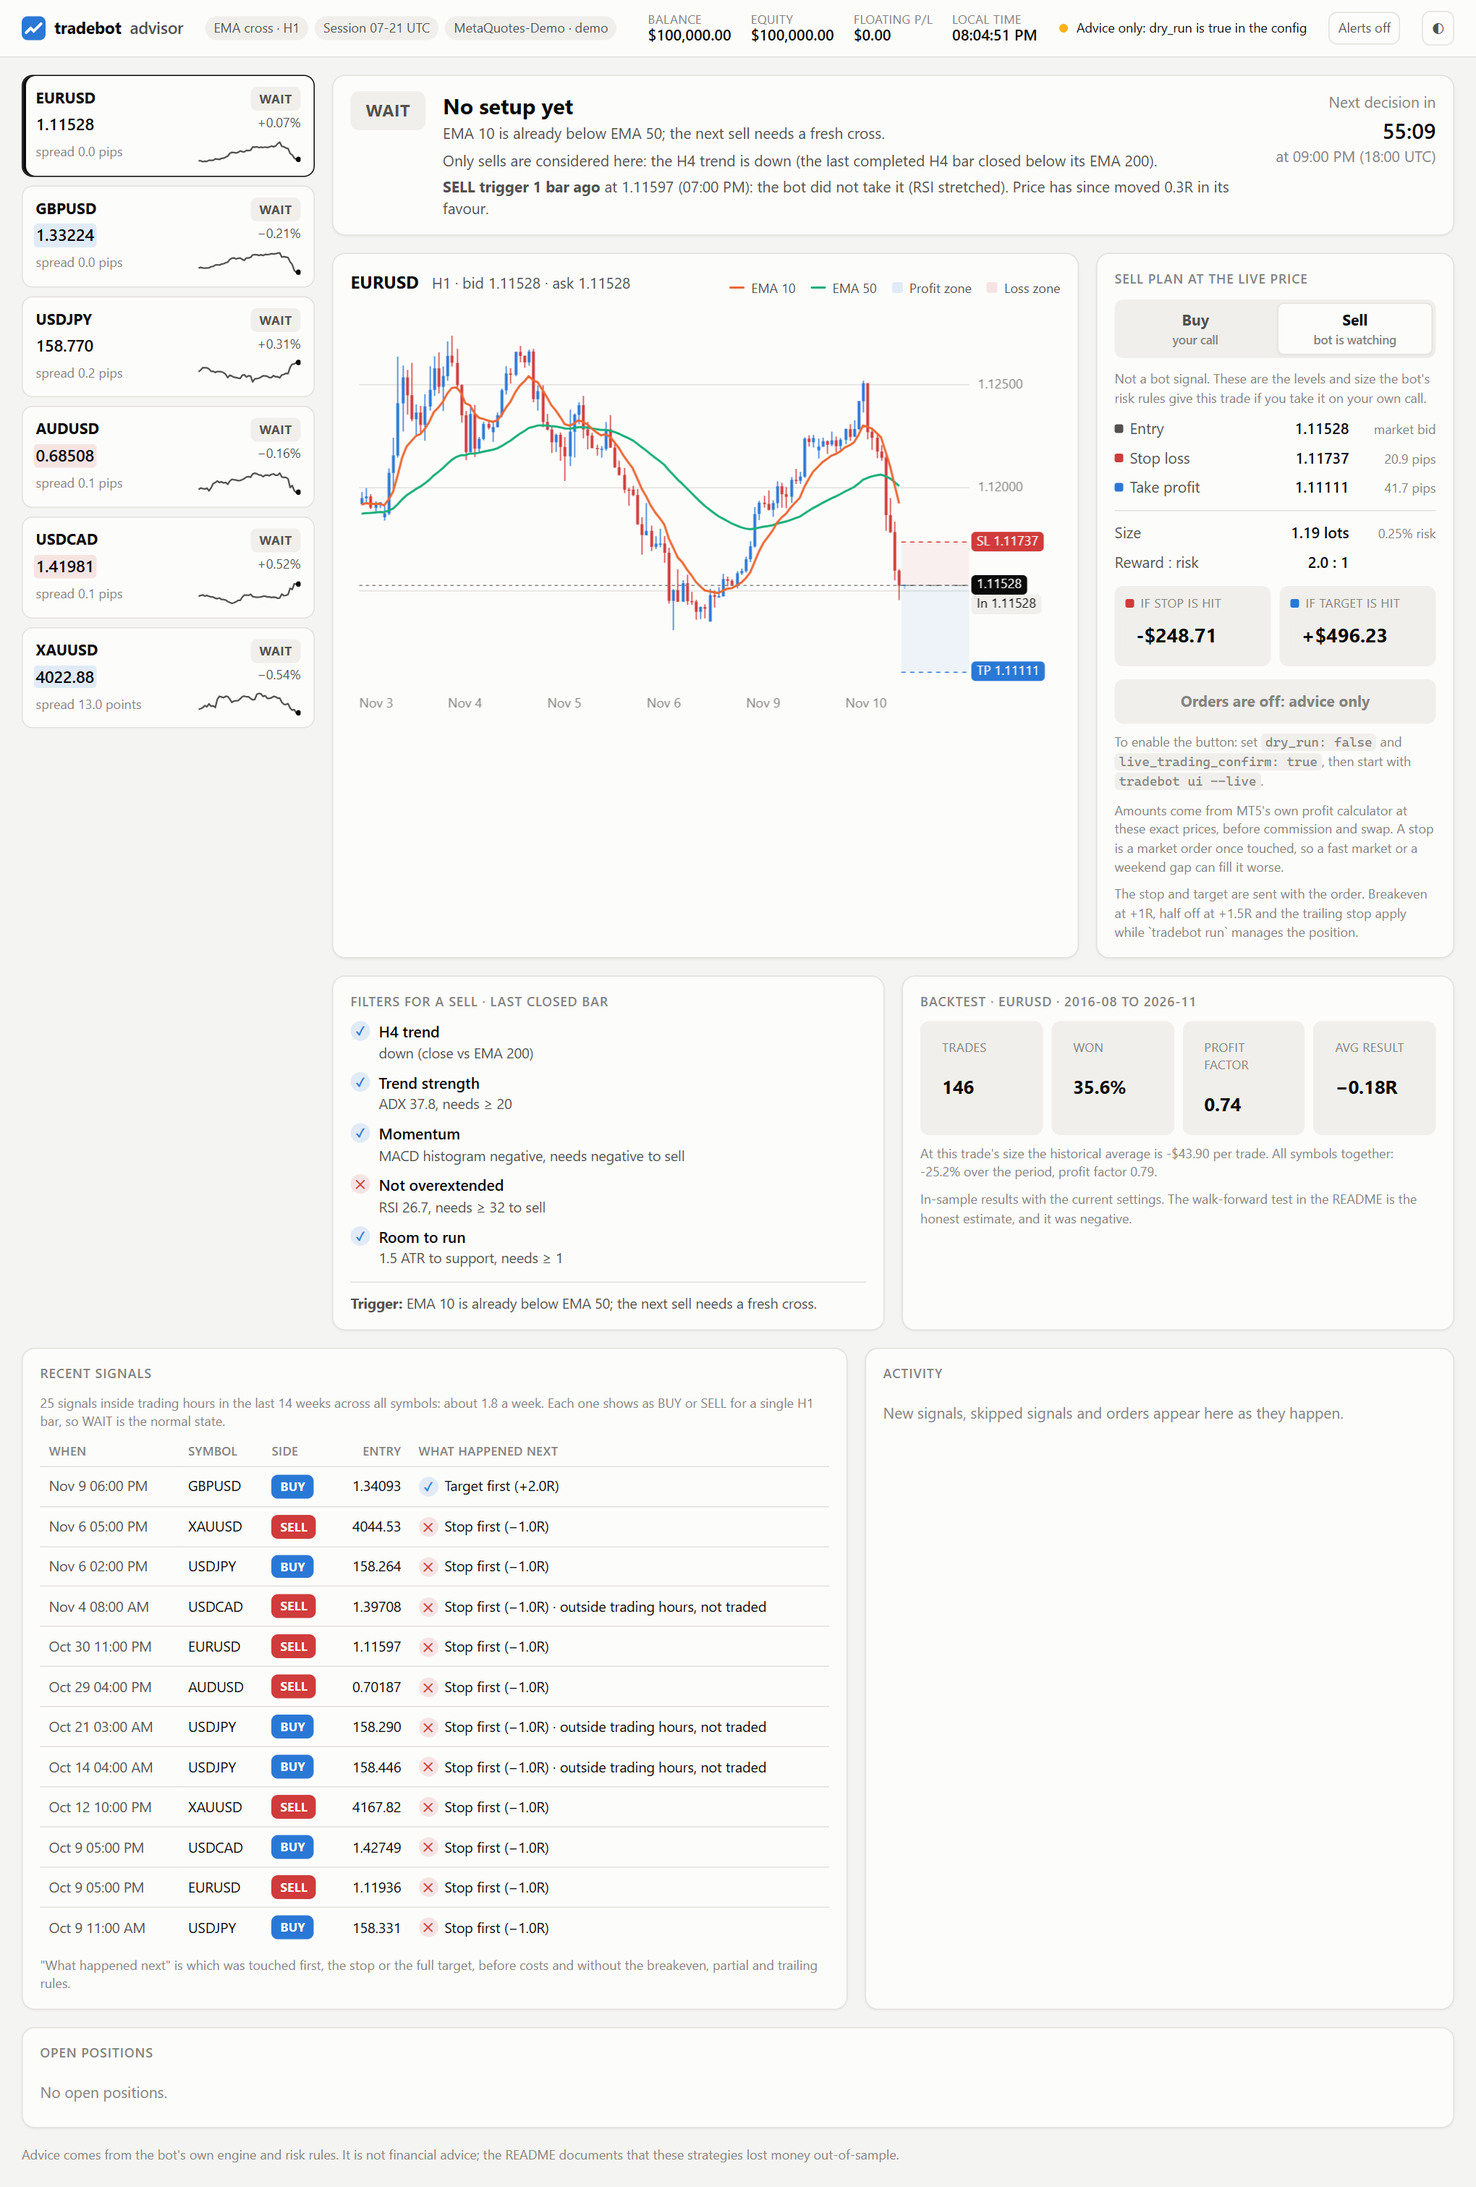
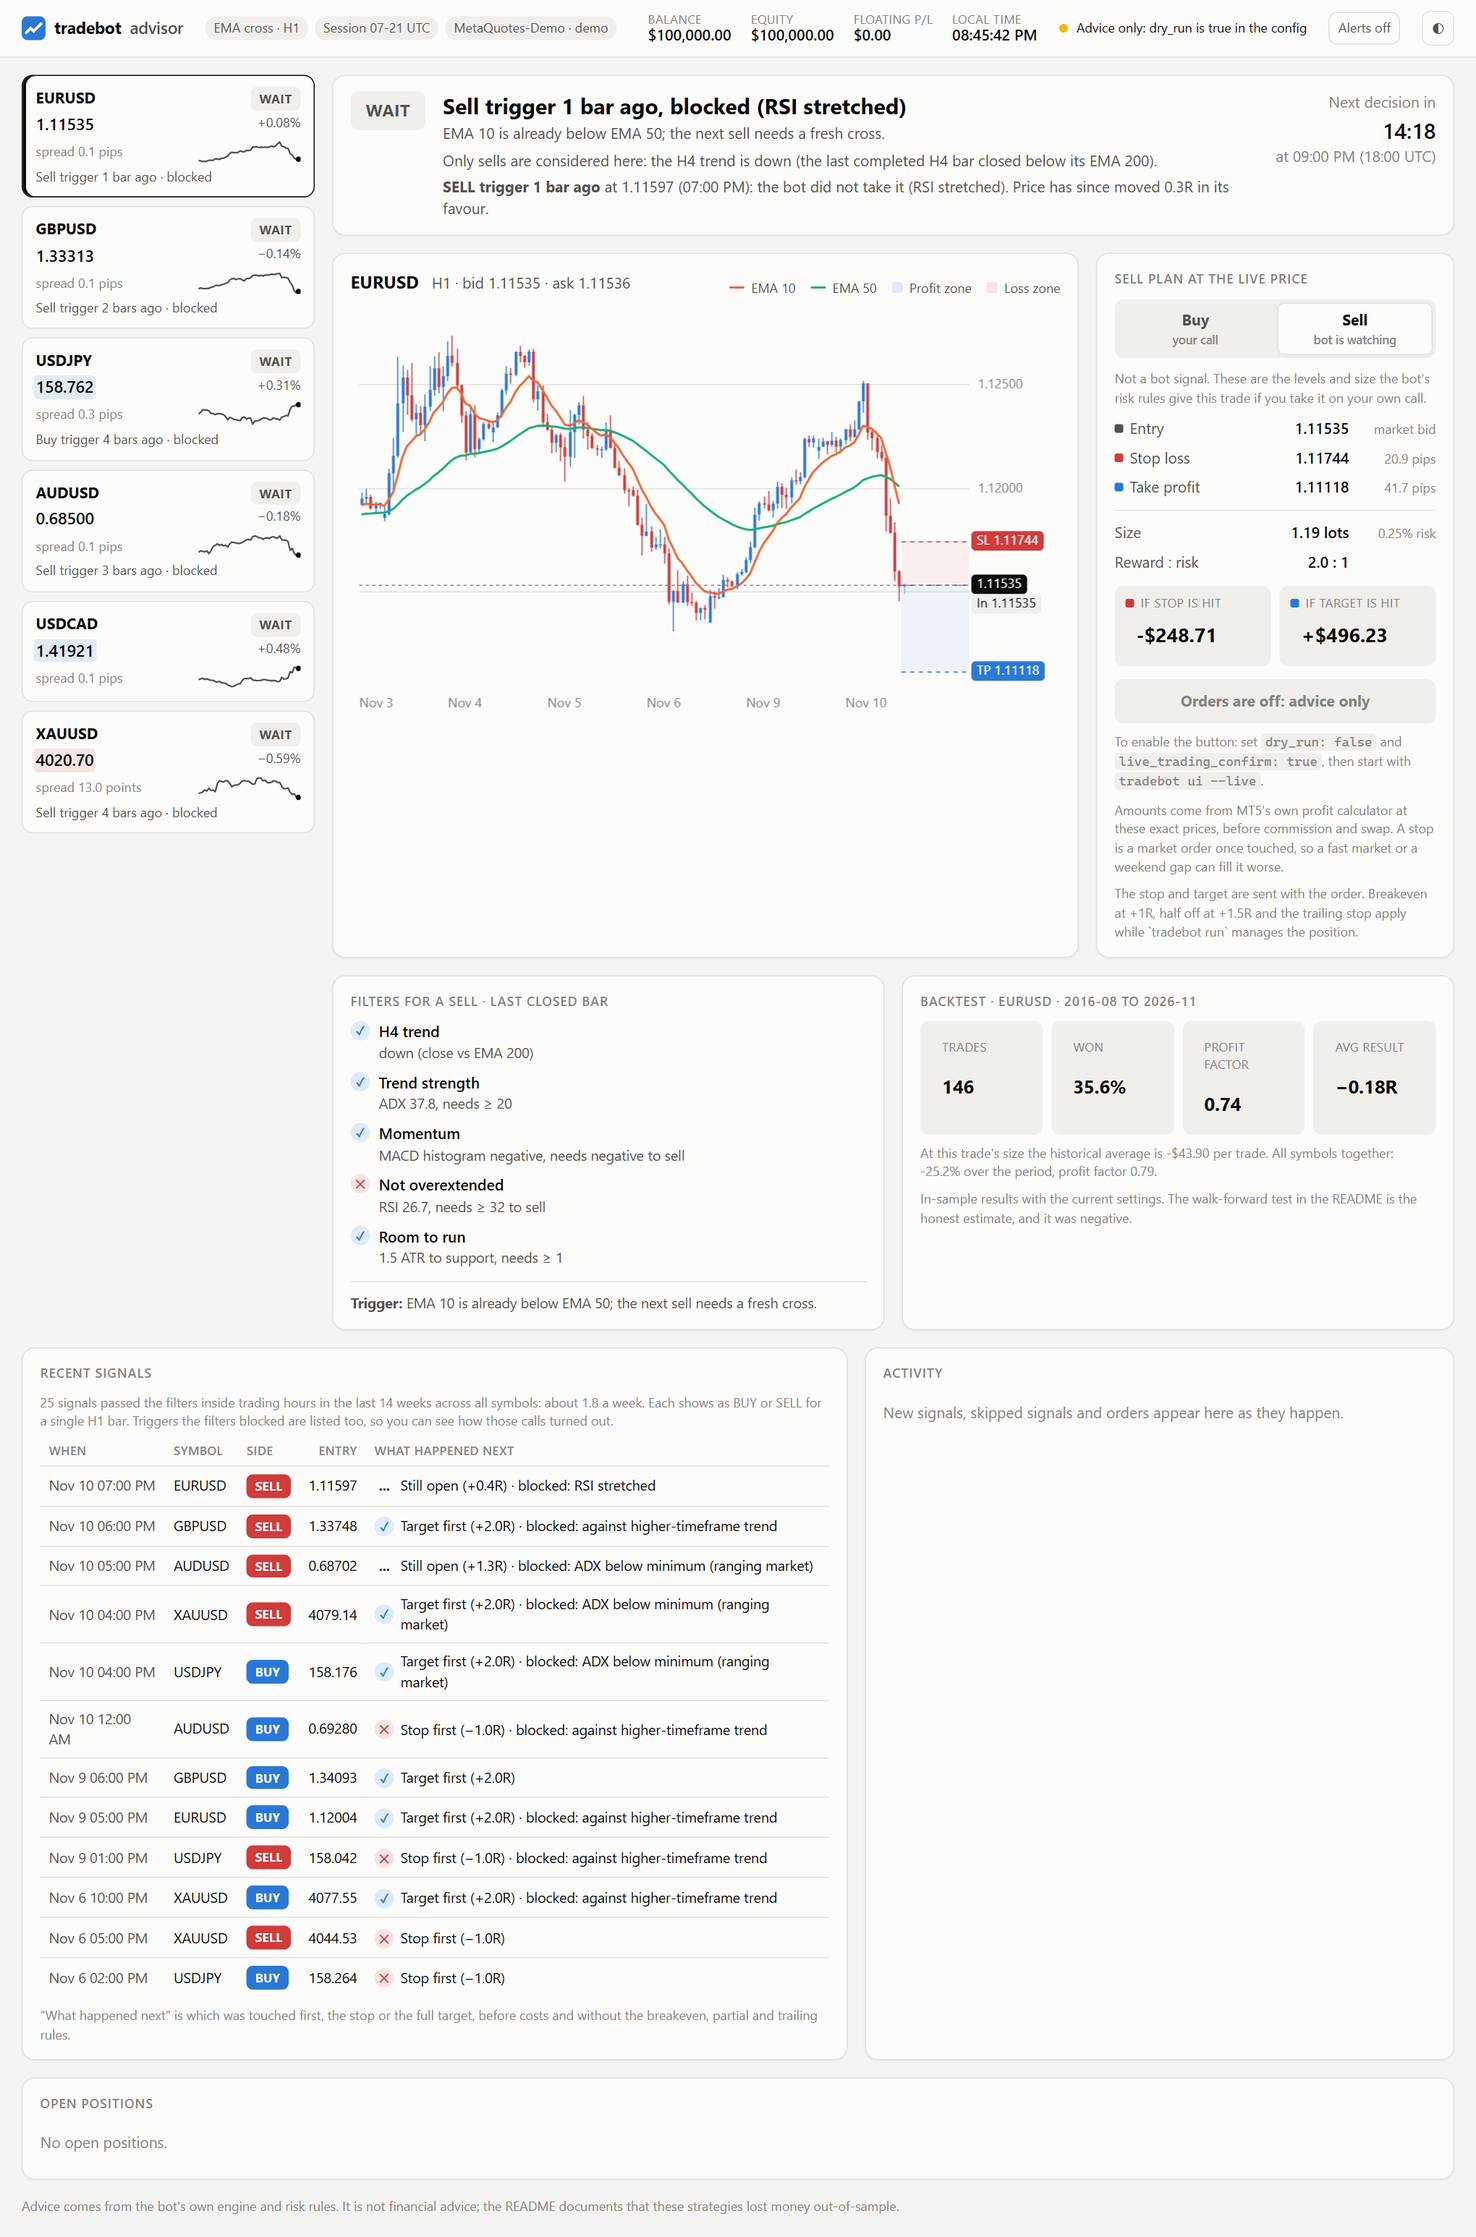
Dashboard: show triggers the filters blocked (v3.4.2)
A trigger rejected by a strategy filter used to leave the status on a
plain WAIT, with "No setup yet" one bar later.

- New BLOCKED status on the bar a trigger fires and a filter rejects it,
  naming the filter; the plan shows that trade for a manual call.
- For the next 12 bars the headline and the watchlist tile keep the
  trigger visible ("Sell trigger 1 bar ago, blocked (RSI stretched)").
- Recent signals lists blocked triggers too, with what happened next.
- Alerts also fire for blocked triggers.

diff --git a/src/tradebot/ui/static/index.html b/src/tradebot/ui/static/index.html
@@ -144,8 +144,8 @@ button { font: inherit; color: inherit; }
 }
 .badge.BUY, .badge.ORDER { background: var(--up); color: var(--on-color); }
 .badge.SELL, .badge.REJECTED { background: var(--down); color: var(--on-color); }
-.badge.SKIP { background: transparent; color: var(--text); box-shadow: inset 0 0 0 1.5px var(--warning); }
-.badge.SKIP::before { content: "!"; display: inline-grid; place-items: center; width: 13px; height: 13px; border-radius: 50%; background: var(--warning); color: #000; font-size: 10px; }
+.badge.SKIP, .badge.BLOCKED { background: transparent; color: var(--text); box-shadow: inset 0 0 0 1.5px var(--warning); }
+.badge.SKIP::before, .badge.BLOCKED::before { content: "!"; display: inline-grid; place-items: center; width: 13px; height: 13px; border-radius: 50%; background: var(--warning); color: #000; font-size: 10px; }
 .badge.big { font-size: 15px; padding: 7px 14px; border-radius: 8px; }
 
 /* --- advice --- */
@@ -517,6 +517,8 @@ function sparkline(row) {
   return svg;
 }
 
+const badgeText = (a) => (a.action === "BLOCKED" ? `${a.side > 0 ? "BUY" : "SELL"} BLOCKED` : a.action);
+
 function renderWatchlist() {
   const items = state.symbols.map((row) => {
     if (row.error) {
@@ -525,6 +527,10 @@ function renderWatchlist() {
         el("span", { class: "sub", text: row.error }));
     }
     const action = row.advice.action;
+    const recent = row.advice.last_trigger;
+    const recentNote = recent && !row.advice.actionable
+      ? `${recent.side > 0 ? "Buy" : "Sell"} trigger ${recent.bars_ago === 0 ? "on the last bar" : `${recent.bars_ago} bar${recent.bars_ago === 1 ? "" : "s"} ago`} · ${recent.taken ? "taken" : "blocked"}`
+      : null;
     const pxEl = el("span", { class: "px", text: px(row.bid, row.digits) });
     const prev = lastBid[row.symbol];
     if (prev != null && prev !== row.bid) {
@@ -536,10 +542,11 @@ function renderWatchlist() {
     const change = first ? Math.round(((row.bid - first) / first) * 10000) / 100 : 0;
     return el("button", { class: "sym", type: "button", "aria-current": row.symbol === selected ? "true" : "false", onclick: () => select(row.symbol) },
       el("span", { class: "name", text: row.symbol }),
-      el("span", { class: `badge ${action}`, text: action }),
+      el("span", { class: `badge ${action}`, text: badgeText(row.advice) }),
       pxEl,
       el("span", { class: "chg muted", title: `Change over the last ${(row.spark || []).length - 1} ${state.timeframe} bars`, text: `${change > 0 ? "+" : change < 0 ? "−" : ""}${Math.abs(change).toFixed(2)}%` }),
       el("span", { class: "sub" }, el("span", { text: `spread ${distance(row, row.spread)}` }), sparkline(row)),
+      recentNote ? el("span", { class: "sub", style: "color:var(--text-2)", text: recentNote }) : null,
     );
   });
   $("#watchlist").replaceChildren(...items);
@@ -557,7 +564,7 @@ function renderAdvice(row) {
         el("div", { class: "faint", text: `at ${localTime(target)} (${utcTime(target)})` }))
     : el("div", { class: "when" });
   const parts = [
-    el("span", { class: `badge big ${a.action}`, text: a.action }),
+    el("span", { class: `badge big ${a.action}`, text: badgeText(a) }),
     el("div", {}, el("div", { class: "headline", text: a.headline }), el("div", { class: "detail", text: a.detail }),
       a.direction_note ? el("div", { class: "detail", text: a.direction_note }) : null,
       triggerLine(row)),
@@ -698,14 +705,15 @@ function renderSignals() {
   rows.sort((a, b) => (a.time < b.time ? 1 : -1));
   if (!rows.length) { $("#signals").replaceChildren(el("div", { class: "empty", text: "No signals in the loaded history yet." })); return; }
   const summary = el("div", { class: "fine", style: "margin:0 0 10px" },
-    `${tradeable} signals inside trading hours in the last ${Math.round(weeks)} weeks across all symbols: about ${(tradeable / weeks).toFixed(1)} a week. ` +
-    `Each one shows as BUY or SELL for a single ${state.timeframe} bar, so WAIT is the normal state.`);
+    `${tradeable} signals passed the filters inside trading hours in the last ${Math.round(weeks)} weeks across all symbols: about ${(tradeable / weeks).toFixed(1)} a week. ` +
+    `Each shows as BUY or SELL for a single ${state.timeframe} bar. Triggers the filters blocked are listed too, so you can see how those calls turned out.`);
   const when = (iso) => { const d = parseTime(iso); return `${d.toLocaleDateString([], { day: "numeric", month: "short" })} ${localTime(iso)}`; };
   const r = (v) => `${v >= 0 ? "+" : "−"}${Math.abs(v).toFixed(1)}R`;
   const result = (x) => {
     const label = x.outcome === "target" ? `Target first (${r(x.r)})` : x.outcome === "stop" ? `Stop first (${r(x.r)})` : `Still open (${r(x.r)})`;
     const mark = x.outcome === "target" ? el("span", { class: "mark ok", text: "✓" }) : x.outcome === "stop" ? el("span", { class: "mark no", text: "✕" }) : el("span", { class: "mark", text: "…" });
-    return el("span", { class: "result" }, mark, label + (x.blocked ? " · outside trading hours, not traded" : ""));
+    const why = x.filter ? ` · blocked: ${x.filter}` : x.blocked ? " · outside trading hours, not traded" : "";
+    return el("span", { class: "result" }, mark, label + why);
   };
   const head = el("tr", {}, ...["When", "Symbol", "Side", "Entry", "What happened next"].map((h, i) => el("th", { class: i === 3 ? "n" : "", text: h })));
   const body = rows.slice(0, 12).map((x) => el("tr", {},
@@ -752,6 +760,14 @@ function announce() {
         tag: key,
       });
     } catch (e) { /* notifications unavailable */ }
+  }
+  for (const sym of state.symbols) {   // a trigger the filters blocked: tell the user, the call is theirs
+    if (!sym.advice || sym.advice.action !== "BLOCKED") continue;
+    const key = `${sym.symbol}:${sym.advice.bar_time}:blocked`;
+    if (announced[key]) continue;
+    announced[key] = true;
+    if (!alertsOn || Notification.permission !== "granted") continue;
+    try { new Notification(`${badgeText(sym.advice)} · ${sym.symbol}`, { body: sym.advice.detail, tag: key }); } catch (e) { /* unavailable */ }
   }
 }
 

diff --git a/src/tradebot/advisor.py b/src/tradebot/advisor.py
@@ -56,7 +56,8 @@ class TradePlan:
 class Advice:
     symbol: str
     action: str
-    """BUY / SELL (take it now), SKIP (signal, but a guard says no), WAIT, CLOSED."""
+    """BUY / SELL (take it now), SKIP (signal, but a guard says no), BLOCKED (a trigger fired on
+    the last bar and a strategy filter rejected it), WAIT, CLOSED."""
     headline: str
     detail: str
     side: int
@@ -102,13 +103,15 @@ def recent_signals(
     and trailing rules, so it is a guide to direction, not a P/L statement.
     """
     time_, signal = features["time"], features["signal"].to_numpy()
+    raw, block = features["raw_signal"].to_numpy(), features["block"].to_numpy()
     high, low, close, atr_ = (features[k].to_numpy(dtype=float) for k in ("high", "low", "close", "atr"))
     bar = pd.Timedelta(minutes=bar_minutes)
-    fired = np.flatnonzero(signal != 0)
-    tradeable = [i for i in fired if schedule.closed((time_.iloc[i] + bar).to_pydatetime()) is None]
+    passed = np.flatnonzero(signal != 0)
+    tradeable = [i for i in passed if schedule.closed((time_.iloc[i] + bar).to_pydatetime()) is None]
+    fired = np.flatnonzero((signal != 0) | (raw != 0))  # blocked triggers are listed too
     items = []
     for i in fired[::-1][:limit]:
-        side, entry = int(signal[i]), close[i]
+        side, entry = int(signal[i] or raw[i]), close[i]
         sl, tp = params.risk.sl_atr * atr_[i], params.risk.tp_atr * atr_[i]
         stop, target = entry - side * sl, entry + side * tp
         outcome, r = "open", (close[-1] - entry) * side / sl
@@ -122,7 +125,8 @@ def recent_signals(
         closed_at = (time_.iloc[i] + bar).to_pydatetime()
         items.append(
             {"time": closed_at, "side": side, "entry": entry, "stop": stop, "target": target,
-             "outcome": outcome, "r": r, "blocked": schedule.closed(closed_at)}
+             "outcome": outcome, "r": r, "blocked": schedule.closed(closed_at),
+             "filter": "" if signal[i] else BLOCK_LABELS.get(block[i], str(block[i]))}
         )  # fmt: skip
     weeks = max((time_.iloc[-1] - time_.iloc[0]) / pd.Timedelta(weeks=1), 1e-9)
     return {"items": items, "tradeable": len(tradeable), "weeks": float(weeks)}
@@ -199,10 +203,19 @@ def advise(
         )  # fmt: skip
     if raw:
         label = BLOCK_LABELS.get(row["block"], row["block"])
+        word = WORD[raw].title()
         return Advice(
-            symbol, "WAIT", f"{WORD[raw].title()} trigger filtered out", f"The trigger fired but {label}.",
+            symbol, "BLOCKED", f"{word} trigger fired, blocked by a filter",
+            f"The {word.lower()} trigger fired on the last bar, but the bot did not take it: {label}. "
+            f"The plan shows the {word.lower()} if you want to take it on your own call.",
             actionable=False, **common,
         )  # fmt: skip
+    recent = common["last_trigger"]
+    if recent and recent["bars_ago"] > 0:
+        word = WORD[recent["side"]].title()
+        ago = f"{recent['bars_ago']} bar{'' if recent['bars_ago'] == 1 else 's'} ago"
+        outcome = "taken" if recent["taken"] else f"blocked ({recent['blocked_by']})"
+        return Advice(symbol, "WAIT", f"{word} trigger {ago}, {outcome}", trigger, actionable=False, **common)
     return Advice(symbol, "WAIT", "No setup yet", trigger, actionable=False, **common)
 
 

diff --git a/tests/test_advisor_ui.py b/tests/test_advisor_ui.py
@@ -95,8 +95,32 @@ def test_engine_size_rejection_also_skips(cfg, broker):
 
 def test_filtered_trigger_says_which_filter(cfg, broker):
     a = advice_for(cfg, broker, features({"raw_signal": 1, "block": "adx"}))
-    assert a.action == "WAIT" and a.headline == "Buy trigger filtered out"
+    assert a.action == "BLOCKED" and not a.actionable and a.side == 1
+    assert a.headline == "Buy trigger fired, blocked by a filter"
     assert "ADX below minimum" in a.detail
+    assert a.plan == a.plans["buy"]  # the plan shows the trade the user may take themselves
+
+
+def test_a_blocked_trigger_stays_in_the_headline_on_later_bars(cfg, broker):
+    """Regression for a real complaint: one bar after a blocked sell the screen said 'No setup yet'."""
+    frame = features()
+    frame.loc[len(frame) - 2, ["raw_signal", "block"]] = [-1, "rsi"]
+    a = advice_for(cfg, broker, frame)
+    assert a.action == "WAIT" and a.headline == "Sell trigger 1 bar ago, blocked (RSI stretched)"
+    frame.loc[len(frame) - 2, ["signal", "block"]] = [-1, ""]
+    assert advice_for(cfg, broker, frame).headline == "Sell trigger 1 bar ago, taken"
+
+
+def test_recent_signals_include_blocked_triggers(cfg):
+    frame = features()
+    frame.loc[10, "signal"] = 1
+    frame.loc[18, ["raw_signal", "block"]] = [-1, "trend"]
+    out = recent_signals(frame, cfg.for_symbol(SYMBOL), cfg.schedule, cfg.bar_minutes)
+    assert [(i["side"], i["filter"]) for i in out["items"]] == [
+        (-1, "against higher-timeframe trend"),
+        (1, ""),
+    ]
+    assert out["tradeable"] == 1  # only signals that passed the filters count towards the rate
 
 
 def test_no_setup_explains_the_next_trigger(cfg, broker):

diff --git a/src/tradebot/__init__.py b/src/tradebot/__init__.py
@@ -1,3 +1,3 @@
 """MetaTrader 5 trading bot: one engine for live trading and backtests."""
 
-__version__ = "3.4.1"
+__version__ = "3.4.2"

diff --git a/README.md b/README.md
@@ -27,7 +27,7 @@ and HTML reports. It has been run end to end against a real MT5 terminal.
 
 ## What it does
 
-- **Advises you live** in a browser dashboard: streaming bid/ask, BUY / SELL / WAIT / SKIP per
+- **Advises you live** in a browser dashboard: streaming bid/ask, BUY / SELL / BLOCKED / SKIP / WAIT per
   symbol with the reason, entry, stop-loss, take-profit, lot size, and the money at risk and to
   gain, all priced at the live quote by the same engine that trades.
 - **Trades MT5** (demo or live) on closed bars, across many symbols, resolving broker suffixes
@@ -87,6 +87,7 @@ symbol, once a second:
 | Live bid / ask, spread, recent price | `symbol_info_tick` and closed bars, polled on one MT5 thread |
 | **BUY / SELL**: take it now, valid until the forming bar closes | a signal on the last closed bar that passes every engine guard |
 | **SKIP**: signal, but don't | the guard that blocks it (session, news, loss limit, spread, minimum lot, margin…) |
+| **BLOCKED**: a trigger fired on the last bar and a strategy filter rejected it | the filter that rejected it (trend, ADX, MACD, RSI, room to S/R); the plan shows that trade in case you take it yourself, and the headline keeps the trigger visible for the next 12 bars |
 | **WAIT**: no setup, and what would trigger one | the strategy's trigger, e.g. "a sell triggers when EMA 10 closes below EMA 50 (now 0.93 ATR above it)" |
 | Entry, stop-loss, take-profit, lot size | `Engine.plan_entry`, the bot's own sizing, priced at the live ask (buy) or bid (sell) |
 | Loss if stopped, profit at target | volume × distance × the terminal's own per-tick value |
@@ -95,7 +96,7 @@ symbol, once a second:
 | Track record | a backtest of the current config on your downloaded history, per symbol |
 | Buy / Sell switch on the plan | the same priced plan for either side, so a trade you choose yourself gets the bot's sizing, stop and target |
 | Latest trigger | the most recent entry trigger in the last 12 bars, the filter that blocked it if one did, and how far price has moved since |
-| Recent signals | the last signals across all symbols and which came first afterwards, the stop or the target, plus how often signals occur (about two a week, each live for one bar, so WAIT is the normal state) |
+| Recent signals | the last triggers across all symbols, taken or blocked, and which came first afterwards, the stop or the target, plus how often signals occur (about two a week, each live for one bar, so WAIT is the normal state) |
 | Alerts | optional browser notification and tab title when a BUY or SELL appears |
 | Open positions, activity | every position on the account (bot or manual), and advice changes as they happen |
 
@@ -398,7 +399,7 @@ became a loss (0.86). It had come from the mislabelled hours.
 
 ```bash
 pip install -e ".[dev]"
-pytest --cov=tradebot      # 135 tests
+pytest --cov=tradebot      # 137 tests
 ruff check . && ruff format --check .
 ```
 
